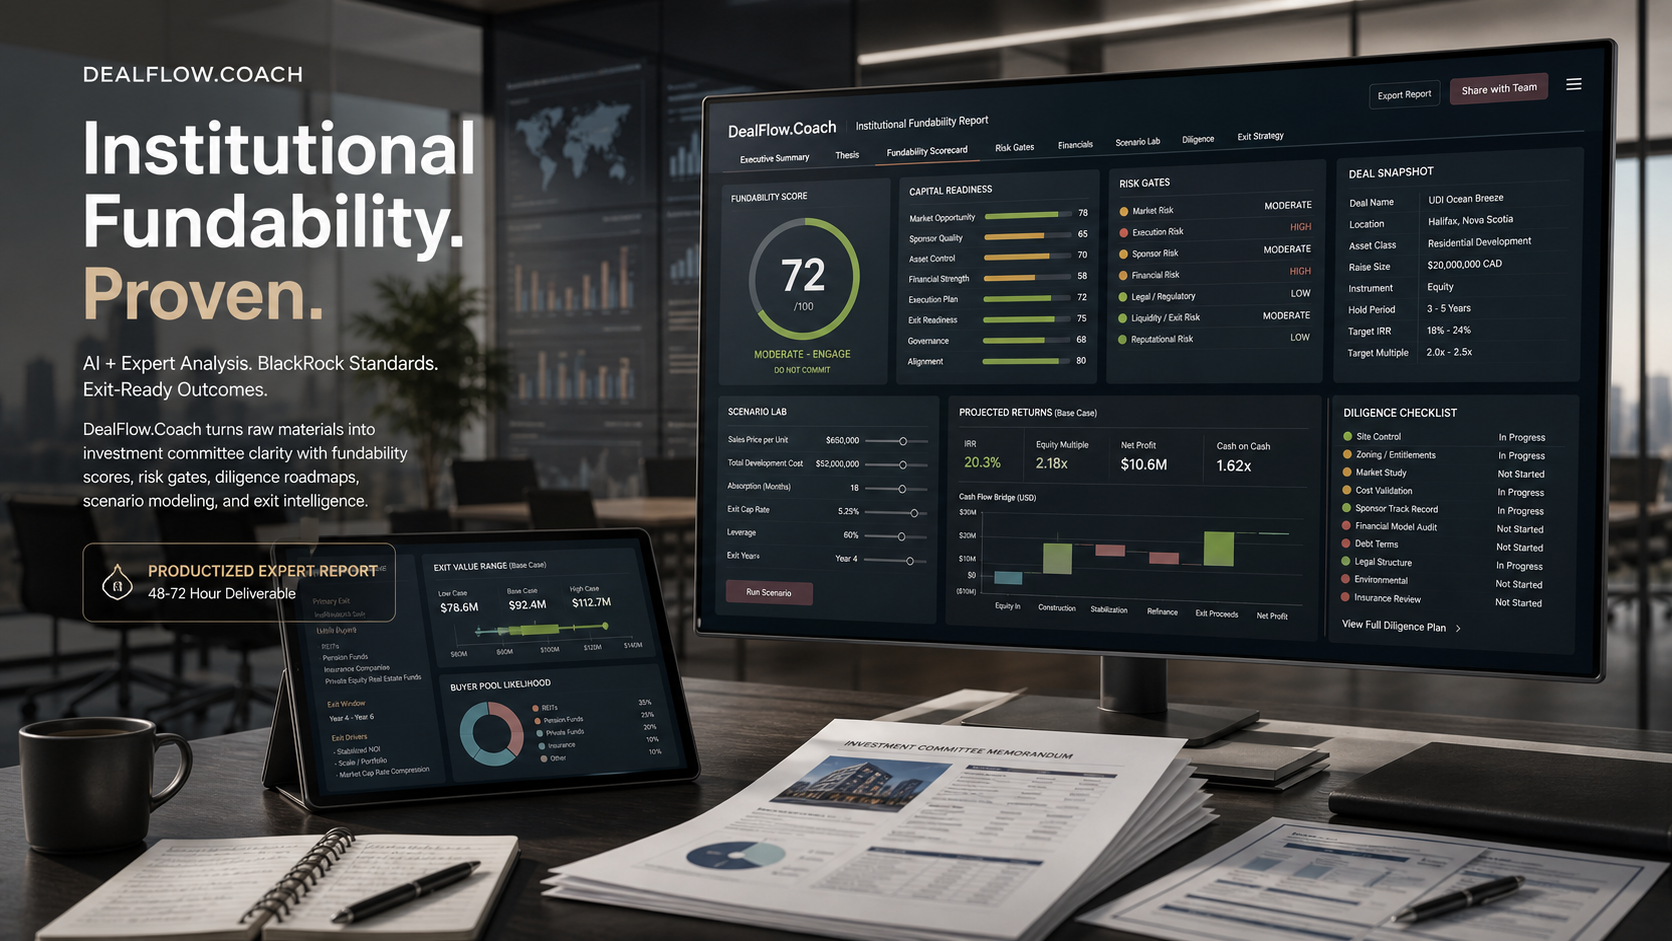
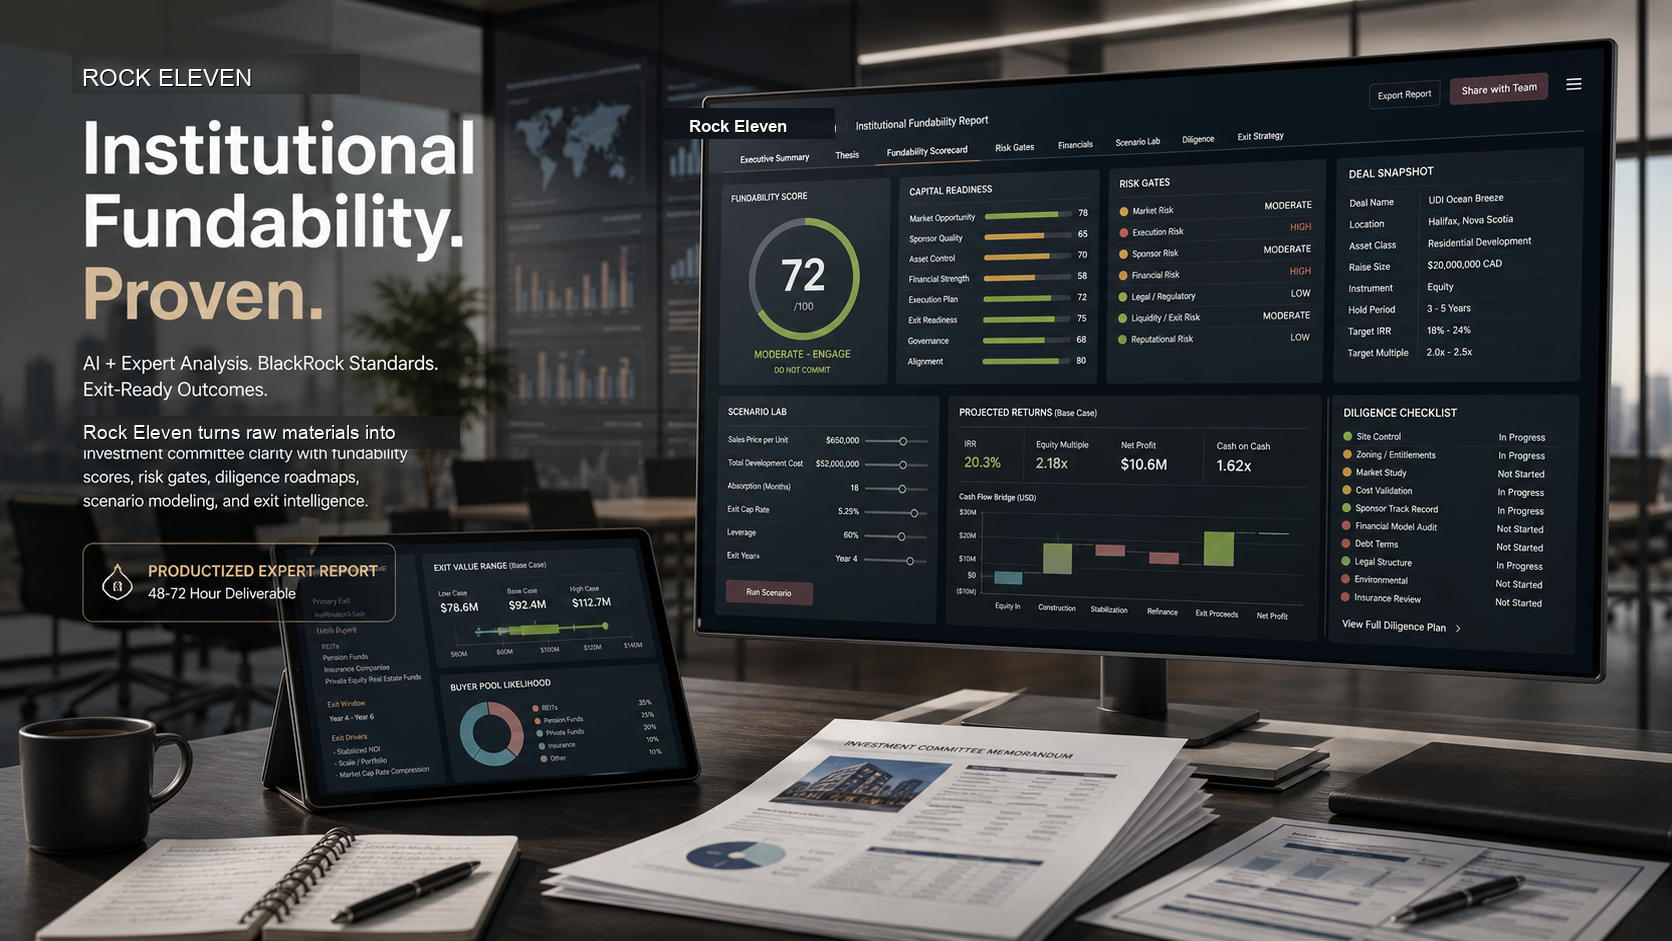
Rebrand Rock Eleven hero image

Changed region(s): [[0.0311, 0.4315, 0.2488, 0.4931], [0.4043, 0.0925, 0.4976, 0.1541], [0.0311, 0.0616, 0.1866, 0.0925]]

diff --git a/rock-eleven/index.html b/rock-eleven/index.html
@@ -52,7 +52,7 @@
             </div>
           </div>
           <div class="hero-visual" aria-label="DealFlow.Coach institutional command center preview">
-            <img src="./assets/dealflow-command-center.png" alt="Institutional deal analysis dashboard preview" />
+            <img src="./assets/dealflow-command-center.png?v=rock-eleven-image-2" alt="Institutional deal analysis dashboard preview" />
           </div>
         </section>
 